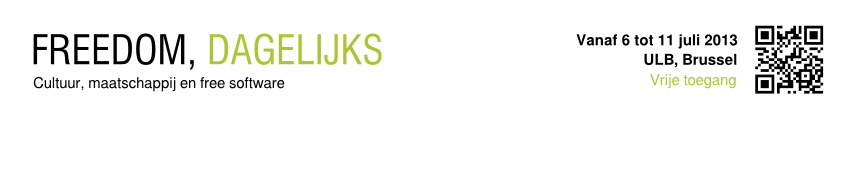
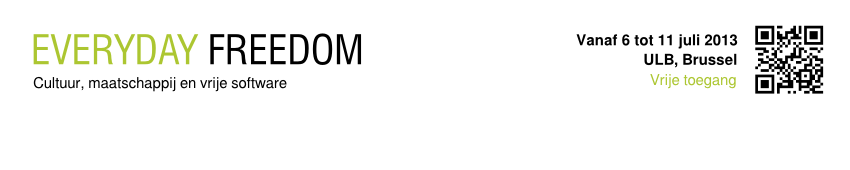
import dutch translation

Changed region(s): [[0.0306, 0.1765, 0.4588, 0.4118], [0.2141, 0.4412, 0.3365, 0.5294]]

diff --git a/content/nl/over-de-lsm/index.html b/content/nl/over-de-lsm/index.html
@@ -1,0 +1,40 @@
+---
+title: Over de LSM
+extends: base.j2
+default_block: post
+uuid: apropos
+---
+{%markdown%}
+
+# Wat is de Libre Software Meeting?
+
+### Het delen van kennis, vrijheid van informatie, groepsgeest, overleg, technologische vooruitgang: elk jaar volgt de Libre Software Meeting (LSM) de filosofie van de vrijheid.
+
+* * *
+
+Als een trekker van de wereld van vrije software, nodigt de LSM iedereen uit die betrokken is bij vrije software: experten, ontwerpers, ontwikkelaars, gebruikers en iedereen die geïnteresseerd is om meer te weten te komen waar het nu eigenlijk over gaat als we het hebben over vrije software, om in een gemoedelijke sfeer bijeen te komen.
+
+Libre Software (GNU/Linux besturingssystemen, de Firefox browser, de LibreOffice.org office suite, programmeertalen, enz.) is computersoftware die zijn ontstaan dankt aan het werk, vaak onbezoldigd, van duizenden mensen uit de hele wereld.
+
+Veel van de mensen die bijdragen aan deze software zijn geen computerspecialisten, maar testers, vertalers, grafisch ontwerpers, scriptschrijvers, leraren, enz. Ook jij kan je bijdrage leveren aan deze vrije software.
+
+De filosofie van Vrije Software gaat veel verder dan computertechnologie. Het is gebaseerd op **vrijheid en onderlinge hulp aan elkaar**.
+
+#### Vrije Software respecteert vier fundamentale vrijheden:
+
+* de vrijheid om het programma voor gelijk welk doel te gebruiken
+* de vrijheid om te bestuderen hoe het programma werkt en om het aan te passen aan de noden van een persoon
+* de vrijheid om kopieën van de software door te geven (dit impliceert zowel weggeven als dragers met de software erop verkopen)
+* de vrijheid om een programma te verbeteren en deze verbeterde versies te verdelen aan iedereen, om er zo voor te zorgen dat de hele gemeenschap er voordeel uit kan halen
+
+#### Een aantal onderwerpen die aan bod komen op de Libre Software Meeting:
+
+* het ontdekken van Vrije Software
+* embedded systemen (wasmachine, telefooncentrale, routers) en Vrije Toestellen
+* politiek, wetgeving en publieke instellingen
+* ondernemingen en Vrije Software
+* besturingssystemen
+
+#### De LSM stelt deelnemers dus in staat om te ontdekken welke oplossingen geschikt zijn voor bepaalde specifieke noden. Het wil een platform zijn voor gebruikers en ontwerpers van software. Er komen ook nieuwe projecten tot stand tijdens een LSM.
+
+{%endmarkdown%}

diff --git a/content/nl/index.html b/content/nl/index.html
@@ -1,27 +1,27 @@
 ---
-title: Home
+title: Hoofdpagina
 extends: base.j2
 default_block: post
 uuid: home
+menu_uid: home
 ---
 
 {%markdown%}
 
+14de Libre Software Meeting 
+====
 
-14de Libre Software Meeting
-===
+### LSM is een niet-commerciële cyclus van conferenties, rondetafelgesprekken en praktische workshops gebaseerd op Vrije Software en het gebruik ervan. De doelstelling is om eem platform te bieden voor gebruikers en ontwikkelaars van Vrije Software.
 
-### LSM is a non-commercial cycle of conferences, round tables and practical workshops based on Libre Software and its uses. Its aim is to provide a platform for Libre Software users, developers and stakeholders.
+De toegang to LSM is vrij en gratis voor alle geïnteresseerden.
 
-Access to LSM is free of charge and open to all.
+Dit jaar zal de LSM doorgaan in Brussel van de 6e tot de 11e juli 2013. De meeting wordt georganiseerd door een groep van plaatselijke verenigingen met de hulp van publieke en private partners. 
 
-This year, the LSM will be organised in Brussels from 6th to 11th July 2013 by a collective of local associations, with the support of public and private partners.
+## Dit jaar:
 
-## This year:
-
-* Saturday, 6th and Sunday, 7th July, week-end for the general public
-* from Monday, 8th to Thursday, 11th July, conferences, workshops, lightning talks and the Libre Boulevard
-* from Saturday, 6th to Tuesday, 9th July, the Festival of Libre Digital Arts
+* Zaterdag 6 en zondag 7 juli, weekend voor het grote publiek
+* Van maandag 8 tot donderdag 11 juli, de lezigen, workshops, kortere voordrachten en de Libre Boulevard
+* Van zaterdag 6 tot dinsdag 9 juli, het Festival Libre Digitale Kunsten 
 
 
 {%endmarkdown%}

diff --git a/content/nl/over-de-lsm/contact.html b/content/nl/over-de-lsm/contact.html
@@ -1,0 +1,37 @@
+---
+title: Contact en mailing lijsten
+extends: base.j2
+default_block: post
+uuid: contact
+---
+
+{%markdown%}
+
+# Contact en mailing lijsten 
+
+### Er zijn meerdere mogelijkheden opgezet om het u gemakkelijk te maken om het LSM 2013 team te contacteren. 
+
+#### Organisatieteam 
+
+Om het organisatieteam te bereiken, zend een e-mail naar:  
+***contact (at) rmll.info***. Je boodschap zal worden gelezen en doorgestuurd naar de persoon die er het best op kan antwoorden. 
+
+* * * 
+
+#### Mailing en overleglijsten 
+
+Er is eveneens een mailinglijst beschikbaar die open staat voor alle deelnemers. Daar kan u tips en weetjes uitwisselen met andere geïnteresseerden:  
+***participants (at) listes2013.rmll.info***.
+
+* * * 
+
+#### IRC / XMPP
+
+En dan is er ook nog een irc-kanaal om in rechtstreeks te overleggen. Daarop zijn zowel deelnemers als organisatoren aanwezig.  
+Om hen te bereiken : ***#rmll@irc.freenode.net***.
+
+De XMPP/Jabber-link is verbonden met het IRC-forum:  
+***rmll@chat.swisslinux.org***
+
+
+{%endmarkdown%}

diff --git a/content/nl/404.html b/content/nl/404.html
@@ -1,0 +1,29 @@
+---
+title: Page introuvable
+extends: base.j2
+default_block: post
+uuid: 404
+---
+
+{%markdown%}
+
+Pagina niet gevonden (error 404)
+====
+
+{%endmarkdown%}
+<ul>
+{% for link in menu[resource.meta.language] %}
+<li>
+<a href="{{link.url}}">{{link.name}}</a>
+{% if link.dropdown %}
+<ul>
+    {% for sublink in link.dropdown %}
+    <li>
+    <a href="{{sublink.url}}">{{sublink.name}}</a>
+    </li>
+    {%endfor%}
+</ul>
+{%endif%}
+</li>
+{%endfor%}
+</ul>
